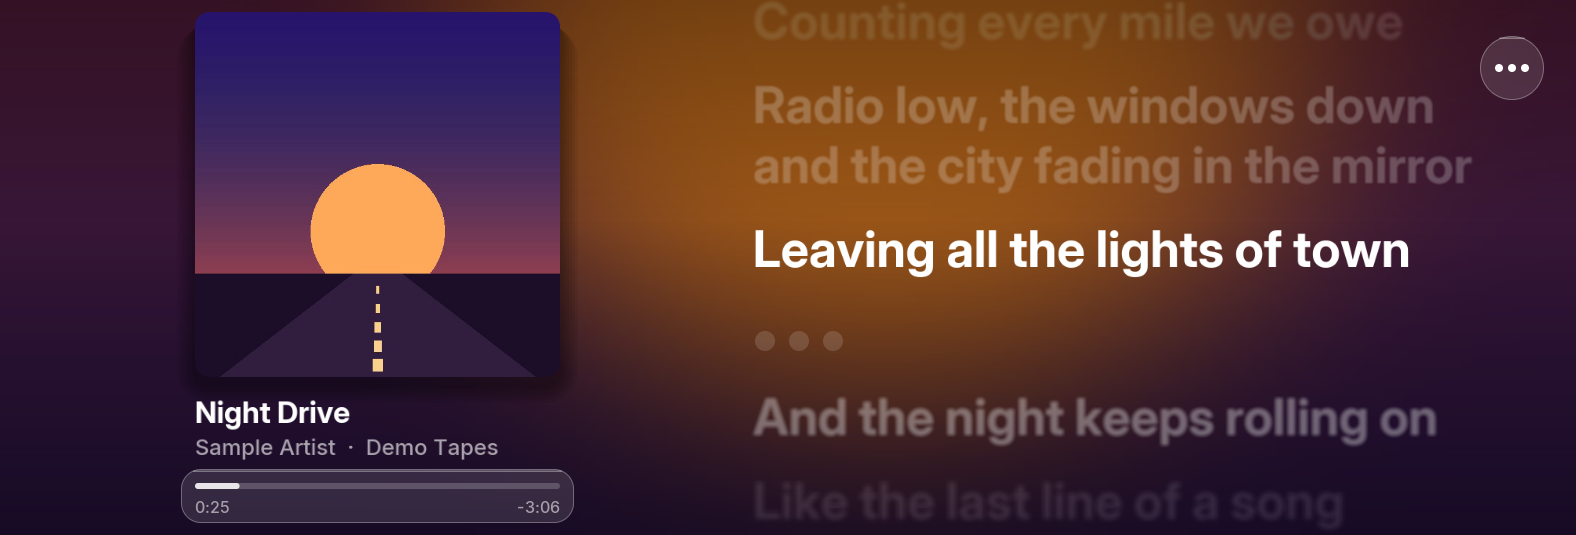
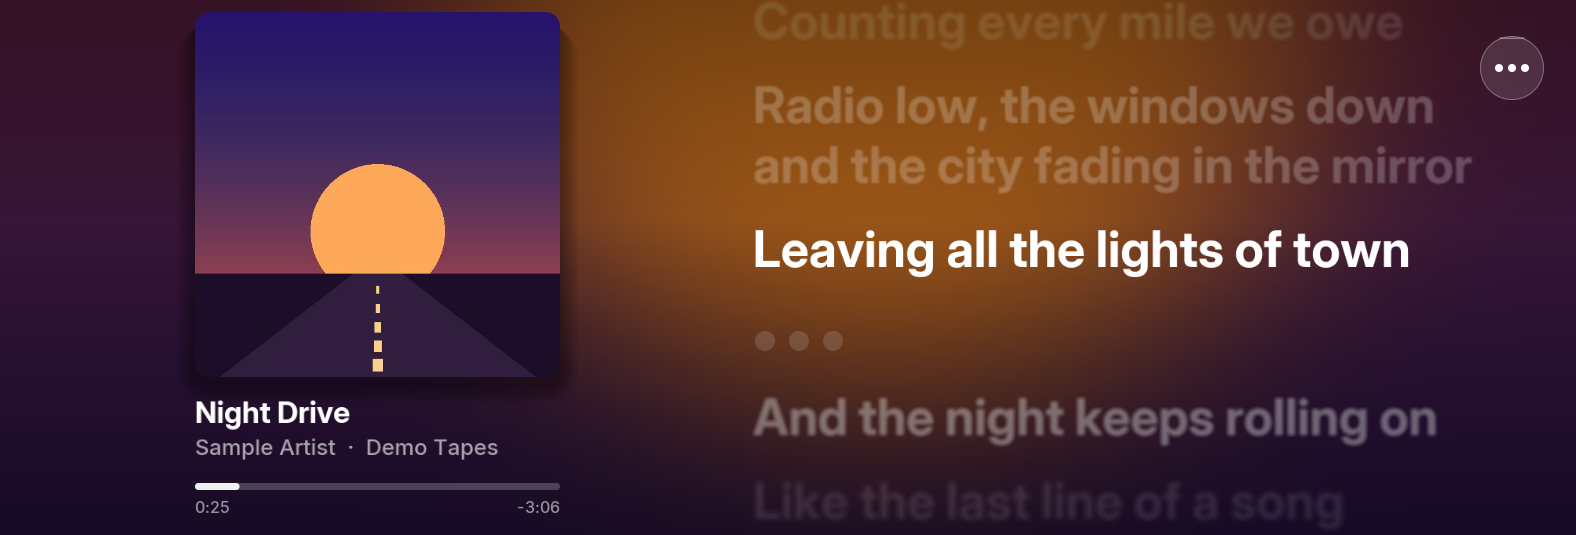
Car Lyrics 0.5.3: BMW's < column matches the page: the HMI's plain background (shown under BMW's side bar with ~13.5 % white over it) is set per song to the page's edge colour with that overlay taken out; the big-cover layout's progress bar is Apple's (thicker rounded bar, times under it, no pill)

Changed region(s): [[0.0933, 0.8673, 0.3731, 0.9869]]

diff --git a/apps/aref_carlyrics/main.js b/apps/aref_carlyrics/main.js
@@ -35,7 +35,7 @@ const ART = require('./artwork');
 const http = require('./http');
 const HW = require('./kit/homewidget');
 
-const VERSION = '0.5.2';
+const VERSION = '0.5.3';
 const HOMEPAGE = 'https://github.com/arefahmad/idrive7-apps';
 const W = 1600, H = 520;
 const IFACES = [
@@ -242,6 +242,24 @@ mgu.run({
             }
 
             /** The blurred artwork behind everything (or the song's colours), drifting slowly while it plays. */
+            /**
+             * Where the kit runs the screen, the HMI's own picture under it is one plain colour (the theme's bg), and
+             * BMW's side bar (the < column) shows it under a light overlay of its own (~13.5 % white, measured on the
+             * car's screen 2026-11-20). So the bg sent is the page's edge colour with that overlay taken back out: the
+             * column then matches the page, song by song.
+             */
+            const THEMES = require('./kit/themes');
+            let hmiBgShown = null;
+            function hmiBg(a, P) {
+                const c = edgeColour(a, P);
+                if (c === hmiBgShown) return;
+                hmiBgShown = c;
+                const OV = 0.135, n = (i) => parseInt(c.slice(1 + i * 2, 3 + i * 2), 16);
+                const v = [0, 1, 2].map((i) => Math.max(0, Math.min(255, Math.round((n(i) - 255 * OV) / (1 - OV)))));
+                const bg = '#' + v.map((x) => ('0' + x.toString(16)).slice(-2)).join('');
+                if (ctx.setTheme) ctx.setTheme(() => Object.assign({}, THEMES.theme(settings.get('theme')), { bg: bg }));
+            }
+
             /** The backdrop's colour at its left edge (the blurred cover's left 8 %, dimmed as the glass dims it), as #rrggbb. */
             const edgeCache = { ver: -1, c: null };
             function edgeColour(a, P) {
@@ -299,9 +317,9 @@ mgu.run({
                 cv.text(fit(cv, by, 22, s, M), x, ty, 22, G.withAlpha(WHITE, 0.62), M);
                 // the progress line, and the times under it
                 const py = ty + 28, pos = Math.max(0, position(now) - offset()), dur = cur.duration || 0;
-                if (glassOn()) glassRect(cv, x - 14, py - 14, s + 28, 54, 20);   // the bar and its times in one glass pill
-                cv.roundRect(x, py, s, 6, 3, G.withAlpha(WHITE, 0.2));
-                if (dur) cv.roundRect(x, py, Math.max(6, Math.min(1, pos / dur) * s), 6, 3, G.withAlpha(WHITE, 0.85));
+                // Apple Music's: a rounded bar a little thicker than a line, the played part white, the times under its ends
+                cv.roundRect(x, py, s, 7, 3.5, G.withAlpha(WHITE, 0.22));
+                if (dur) cv.roundRect(x, py, Math.max(7, Math.min(1, pos / dur) * s), 7, 3.5, G.withAlpha(WHITE, 0.92));
                 cv.text(mmss(pos), x, py + 30, 16, G.withAlpha(WHITE, 0.55), M);
                 if (dur) cv.text('-' + mmss(dur - pos), x + s, py + 30, 16, G.withAlpha(WHITE, 0.55), Object.assign({ align: 'right' }, M));
                 const state = !cur.playing ? 'Paused' : !clk ? 'Timed from the song change' : '';
@@ -432,7 +450,7 @@ mgu.run({
                 } else {
                     LYR.size = LYR_SIZES[settings.get('lyrics_size')] || 50; LYR.lh = Math.round(LYR.size * 1.2); LYR.gap = Math.round(LYR.size * 0.48);
                     const P = nameColours(cur.title + cur.artist), a = artFor(), Q = sideOn() ? geo(A) : geoGlass(A);
-                    backdrop(cv, a, now, P, fullH); sideBand(a, P);
+                    backdrop(cv, a, now, P, fullH); sideBand(a, P); hmiBg(a, P);
                     if (Q.glass) glassChrome(cv, Q, a, P, now); else { coverColumn(cv, Q, a, P, now); moreButton(cv, A); }
                     const lyr = lyrics.get({ title: cur.title, artist: cur.artist, album: cur.album, duration: cur.duration });
                     if (lyr.state === 'synced' && lyr.lines.length) drawSynced(cv, Q, lyr.lines, now);
